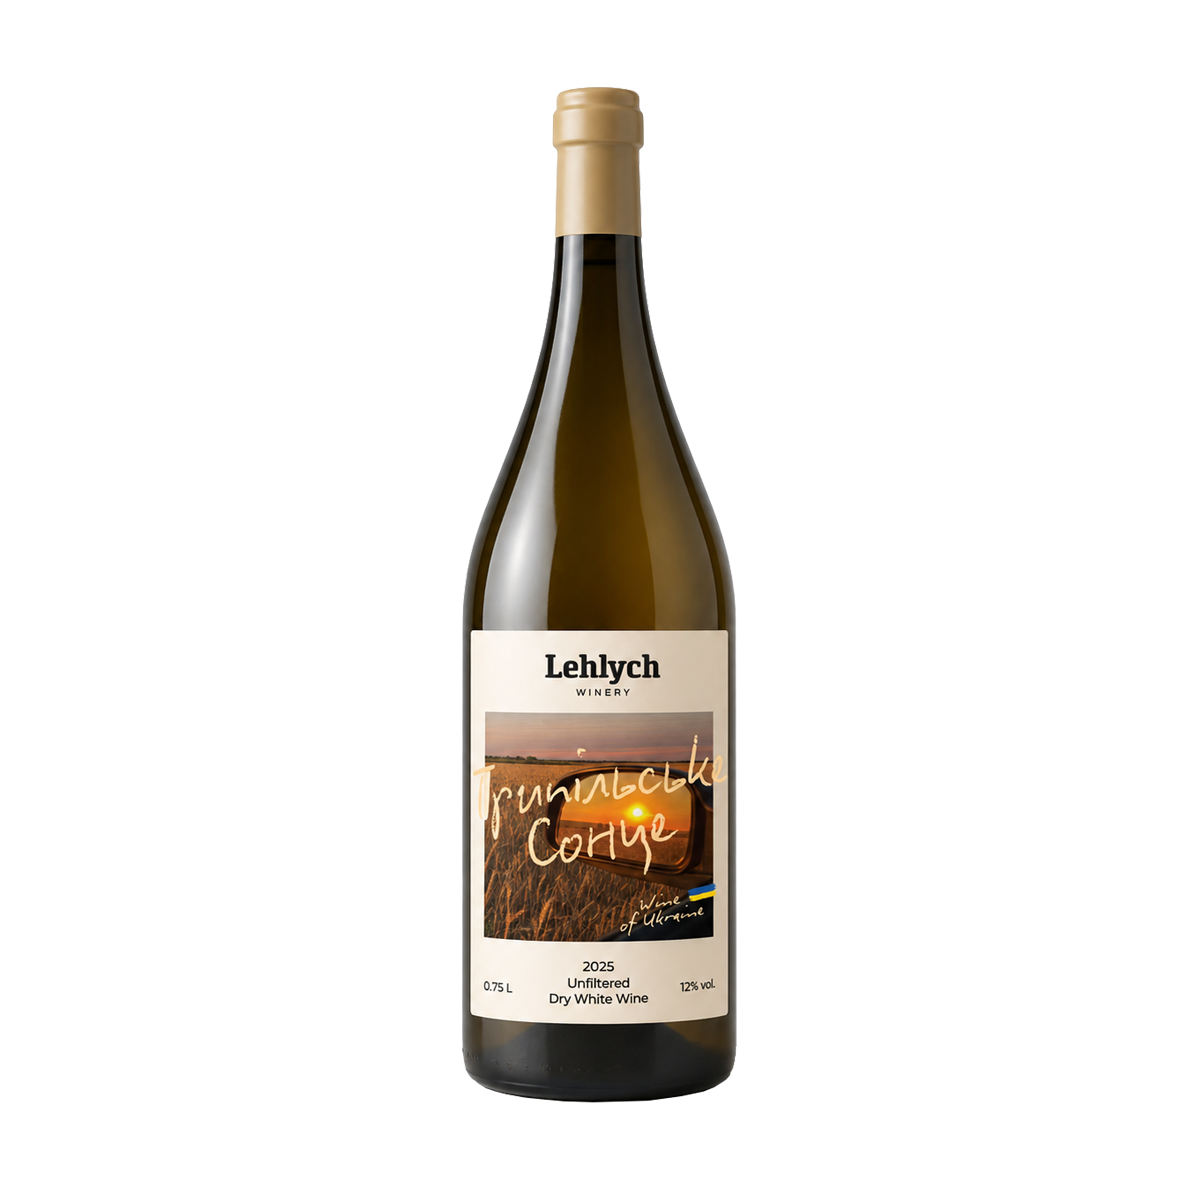
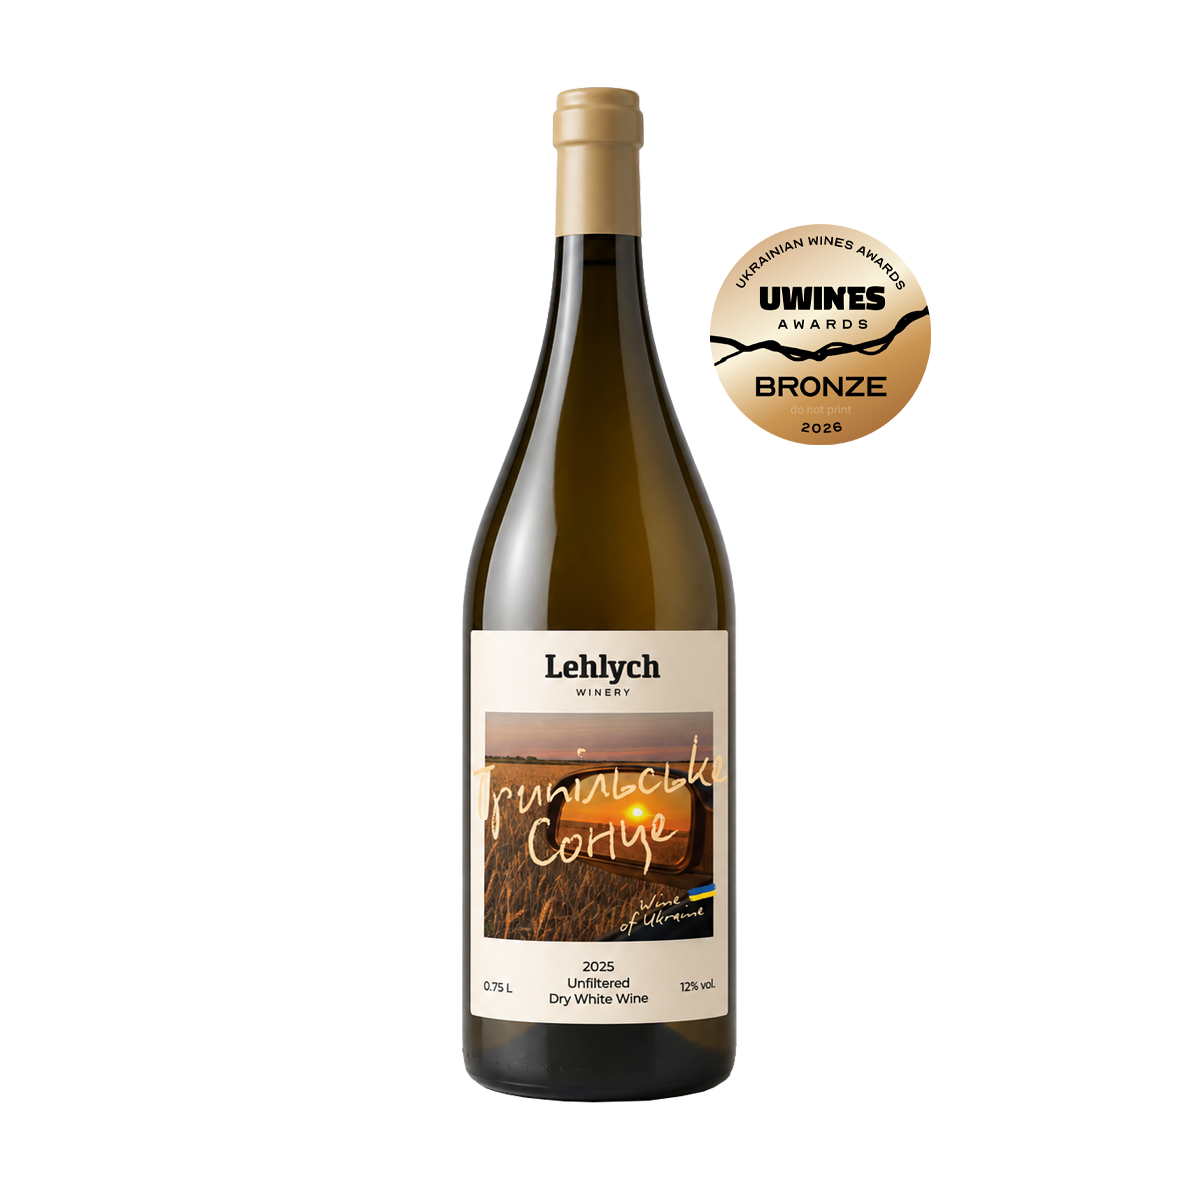
Карусель: фото аромапрофілю (колонка Aroma profile) останніми + оновлені фото Трипільського

Changed region(s): [[0.5858, 0.185, 0.8017, 0.37]]

diff --git a/chardonnay-2025/index.html b/chardonnay-2025/index.html
@@ -50,7 +50,7 @@
           <img src="/images/products/chardonnay-2025/transparent.png" alt="Chardonnay" class="product-photo" id="galleryMainImg">
           <button class="gallery-nav prev" type="button" onclick="galleryNav(-1)" aria-label="Попереднє">‹</button><button class="gallery-nav next" type="button" onclick="galleryNav(1)" aria-label="Наступне">›</button>
         </div>
-        <div class="gallery-thumbs"><button class="gallery-thumb active" type="button" onclick="gallerySet(0)"><img src="/images/products/chardonnay-2025/transparent.png" alt="" loading="lazy"></button><button class="gallery-thumb" type="button" onclick="gallerySet(1)"><img src="/images/products/chardonnay-2025/ai-1.jpeg" alt="" loading="lazy"></button></div>
+        <div class="gallery-thumbs"><button class="gallery-thumb active" type="button" onclick="gallerySet(0)"><img src="/images/products/chardonnay-2025/transparent.png" alt="" loading="lazy"></button><button class="gallery-thumb" type="button" onclick="gallerySet(1)"><img src="/images/products/chardonnay-2025/ai-1.jpeg" alt="" loading="lazy"></button><button class="gallery-thumb" type="button" onclick="gallerySet(2)"><img src="/images/products/chardonnay-2025/aroma-1.png" alt="" loading="lazy"></button></div>
       </div>
 
       <div class="product-info">

diff --git a/rozhevyi-obrii-2025/index.html b/rozhevyi-obrii-2025/index.html
@@ -50,7 +50,7 @@
           <img src="/images/products/rozhevyi-obrii-2025/transparent.png" alt="Рожевий Обрій" class="product-photo" id="galleryMainImg">
           <button class="gallery-nav prev" type="button" onclick="galleryNav(-1)" aria-label="Попереднє">‹</button><button class="gallery-nav next" type="button" onclick="galleryNav(1)" aria-label="Наступне">›</button>
         </div>
-        <div class="gallery-thumbs"><button class="gallery-thumb active" type="button" onclick="gallerySet(0)"><img src="/images/products/rozhevyi-obrii-2025/transparent.png" alt="" loading="lazy"></button><button class="gallery-thumb" type="button" onclick="gallerySet(1)"><img src="/images/products/rozhevyi-obrii-2025/ai-1.jpeg" alt="" loading="lazy"></button></div>
+        <div class="gallery-thumbs"><button class="gallery-thumb active" type="button" onclick="gallerySet(0)"><img src="/images/products/rozhevyi-obrii-2025/transparent.png" alt="" loading="lazy"></button><button class="gallery-thumb" type="button" onclick="gallerySet(1)"><img src="/images/products/rozhevyi-obrii-2025/ai-1.jpeg" alt="" loading="lazy"></button><button class="gallery-thumb" type="button" onclick="gallerySet(2)"><img src="/images/products/rozhevyi-obrii-2025/aroma-1.png" alt="" loading="lazy"></button></div>
       </div>
 
       <div class="product-info">

diff --git a/sauvignon-blanc-2025/index.html b/sauvignon-blanc-2025/index.html
@@ -50,7 +50,7 @@
           <img src="/images/products/sauvignon-blanc-2025/transparent.png" alt="Sauvignon Blanc" class="product-photo" id="galleryMainImg">
           <button class="gallery-nav prev" type="button" onclick="galleryNav(-1)" aria-label="Попереднє">‹</button><button class="gallery-nav next" type="button" onclick="galleryNav(1)" aria-label="Наступне">›</button>
         </div>
-        <div class="gallery-thumbs"><button class="gallery-thumb active" type="button" onclick="gallerySet(0)"><img src="/images/products/sauvignon-blanc-2025/transparent.png" alt="" loading="lazy"></button><button class="gallery-thumb" type="button" onclick="gallerySet(1)"><img src="/images/products/sauvignon-blanc-2025/ai-1.jpeg" alt="" loading="lazy"></button></div>
+        <div class="gallery-thumbs"><button class="gallery-thumb active" type="button" onclick="gallerySet(0)"><img src="/images/products/sauvignon-blanc-2025/transparent.png" alt="" loading="lazy"></button><button class="gallery-thumb" type="button" onclick="gallerySet(1)"><img src="/images/products/sauvignon-blanc-2025/ai-1.jpeg" alt="" loading="lazy"></button><button class="gallery-thumb" type="button" onclick="gallerySet(2)"><img src="/images/products/sauvignon-blanc-2025/aroma-1.png" alt="" loading="lazy"></button></div>
       </div>
 
       <div class="product-info">

diff --git a/trypilske-sonce-2025/index.html b/trypilske-sonce-2025/index.html
@@ -50,7 +50,7 @@
           <img src="/images/products/trypilske-sonce-2025/transparent.png" alt="Трипільське Сонце" class="product-photo" id="galleryMainImg">
           <button class="gallery-nav prev" type="button" onclick="galleryNav(-1)" aria-label="Попереднє">‹</button><button class="gallery-nav next" type="button" onclick="galleryNav(1)" aria-label="Наступне">›</button>
         </div>
-        <div class="gallery-thumbs"><button class="gallery-thumb active" type="button" onclick="gallerySet(0)"><img src="/images/products/trypilske-sonce-2025/transparent.png" alt="" loading="lazy"></button><button class="gallery-thumb" type="button" onclick="gallerySet(1)"><img src="/images/products/trypilske-sonce-2025/ai-1.jpeg" alt="" loading="lazy"></button></div>
+        <div class="gallery-thumbs"><button class="gallery-thumb active" type="button" onclick="gallerySet(0)"><img src="/images/products/trypilske-sonce-2025/transparent.png" alt="" loading="lazy"></button><button class="gallery-thumb" type="button" onclick="gallerySet(1)"><img src="/images/products/trypilske-sonce-2025/ai-1.jpeg" alt="" loading="lazy"></button><button class="gallery-thumb" type="button" onclick="gallerySet(2)"><img src="/images/products/trypilske-sonce-2025/aroma-1.png" alt="" loading="lazy"></button></div>
       </div>
 
       <div class="product-info">

diff --git a/scripts/sync-notion.py b/scripts/sync-notion.py
@@ -156,6 +156,15 @@ def main():
             if download(url, dest):
                 ai_local.append(str(dest.relative_to(ROOT)))
 
+        # ── фото аромапрофілю (колонка «Aroma profile») — у карусель останніми ──
+        photos_aroma = field(pr, "Aroma profile") or []
+        aroma_local = []
+        for idx, url in enumerate(photos_aroma):
+            ext = url.split("?")[0].split(".")[-1][:4] or "jpg"
+            dest = PHOTO_DIR / slug / f"aroma-{idx + 1}.{ext}"
+            if download(url, dest):
+                aroma_local.append(str(dest.relative_to(ROOT)))
+
         products.append({
             "name": name,
             "slug": slug,
@@ -185,6 +194,7 @@ def main():
             "photoWhite": local["white"],
             "photoTransparent": local["transparent"],
             "aiPhotos": ai_local,
+            "aromaPhotos": aroma_local,
         })
         print(f"   ✓ {name}  ({rrp} грн, {stock})")
 

diff --git a/scripts/build-site.py b/scripts/build-site.py
@@ -98,6 +98,10 @@ def gallery_html(p):
     for a in (p.get("aiPhotos") or []):
         if a and a not in imgs:
             imgs.append(a)
+    # аромапрофіль — завжди останніми
+    for a in (p.get("aromaPhotos") or []):
+        if a and a not in imgs:
+            imgs.append(a)
     if not imgs:
         imgs = [p.get("photoWhite") or ""]
 